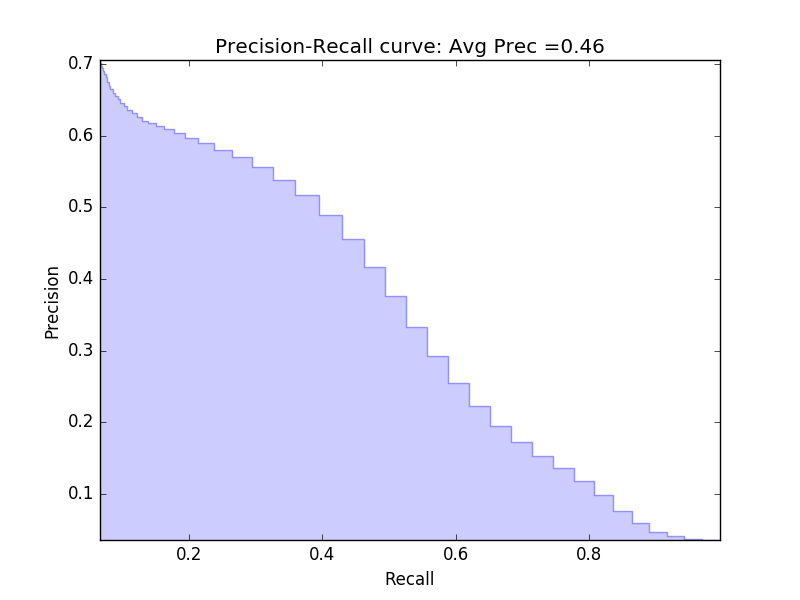
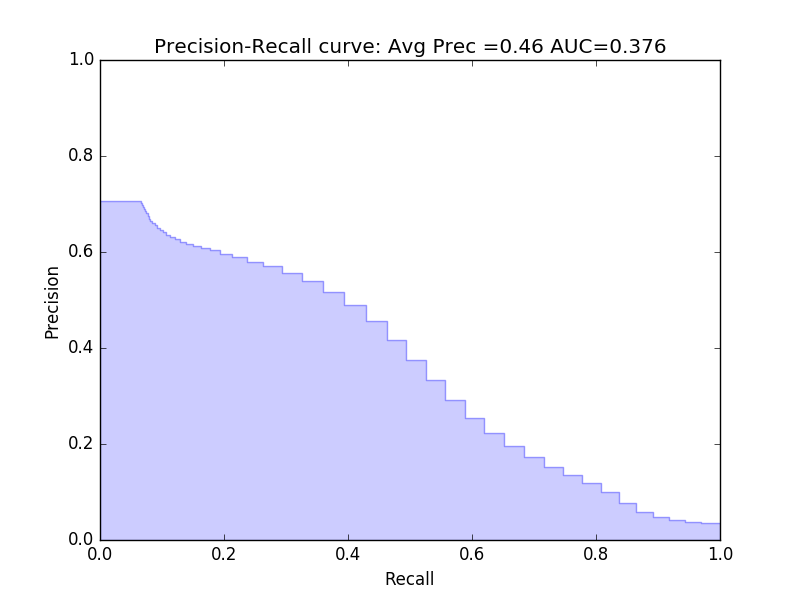
AUC

diff --git a/tools/visualization.py b/tools/visualization.py
@@ -6,6 +6,7 @@ import numpy as np
 import os
 from skimage.measure import block_reduce
 from metrics.optical_flow import read_flow_field
+from sklearn.metrics import auc
 
 def plot_metrics_vs_threshold(precision, recall, F1_score, threshold,
                               output_folder=""):
@@ -24,6 +25,11 @@ def plot_metrics_vs_threshold(precision, recall, F1_score, threshold,
 
 
 def plot_precision_recall_curve(precision, recall, output_folder=""):
+    precision.insert(0, precision[0])
+    precision.insert(len(precision), precision[-1])
+    recall.insert(0, 1)
+    recall.insert(len(recall), 0)
+    area = auc(recall, precision)
     plt.step(recall, precision, color='b', alpha=0.2,
              where='post')
     plt.fill_between(recall, precision, step='post', alpha=0.2,
@@ -31,9 +37,9 @@ def plot_precision_recall_curve(precision, recall, output_folder=""):
     average_precision = reduce(lambda x, y: x + y, precision) / len(precision)
     plt.xlabel('Recall')
     plt.ylabel('Precision')
-    plt.ylim([min(precision), max(precision)])
-    plt.xlim([min(recall), max(recall)])
-    plt.title('Precision-Recall curve: Avg Prec ={0:0.2f}'.format(average_precision))
+    plt.ylim([0, 1])
+    plt.xlim([0, 1])
+    plt.title('Precision-Recall curve: Avg Prec ={0:0.2f} AUC={1:0.3f}'.format(average_precision, area))
     if output_folder != "":
         plt.savefig(os.path.join(output_folder, "task_1_2_precision_recall.png"))
     plt.show(block=False)

diff --git a/config/fall_background.py b/config/fall_background.py
@@ -18,13 +18,13 @@ desynchronization             = True        # Apply desynchronization
 desynchronization_frames      = [0, 5, 10]  # Nr frames to desynchronize
 
 # Background Modelling
-alpha                         = 1
+alpha                         = 1.1
 rho                           = 0.5
-modelling_method              = 'gaussian'  # adaptive instead
+modelling_method              = 'gaussian'  # {gaussian, adaptive, mog, mog2, gmg, lsbp}
 evaluate_foreground           = True
-evaluate_alpha_range          = [0.01, 5]   # range of alpha values
+evaluate_alpha_range          = [0.01, 5]
 evaluate_alpha_values         = 100         # number of alpha values to evaluate
-evaluate_rho_range            = [0.01, 1]   # range of rho values
+evaluate_rho_range            = [0.01, 5]   # range of rho values
 evaluate_rho_values           = 100         # number of rho values to evaluate
 
 # Save results

diff --git a/config/traffic_background.py b/config/traffic_background.py
@@ -18,11 +18,11 @@ desynchronization             = True        # Apply desynchronization
 desynchronization_frames      = [0, 5, 10]  # Nr frames to desynchronize
 
 # Background Modelling
-alpha                         = 1
+alpha                         = 1.1
 rho                           = 0.5
-modelling_method              = 'gaussian'  # adaptive instead
+modelling_method              = 'gaussian'  # {gaussian, adaptive, mog, mog2, gmg, lsbp}
 evaluate_foreground           = True
-evaluate_alpha_range          = [0.01, 5]   # range of alpha values
+evaluate_alpha_range          = [0.01, 5]
 evaluate_alpha_values         = 100         # number of alpha values to evaluate
 evaluate_rho_range            = [0.01, 5]   # range of rho values
 evaluate_rho_values           = 100         # number of rho values to evaluate

diff --git a/config/highway_background.py b/config/highway_background.py
@@ -20,8 +20,8 @@ desynchronization_frames      = [0, 5, 10]  # Nr frames to desynchronize
 # Background Modelling
 alpha                         = 1.1
 rho                           = 0.5
-modelling_method              = 'lsbp'  # {gaussian, adaptive, mog, mog2, gmg, lsbp}
-evaluate_foreground           = False
+modelling_method              = 'gaussian'  # {gaussian, adaptive, mog, mog2, gmg, lsbp}
+evaluate_foreground           = True
 evaluate_alpha_range          = [0.01, 5]
 evaluate_alpha_values         = 100         # number of alpha values to evaluate
 evaluate_rho_range            = [0.01, 5]   # range of rho values
